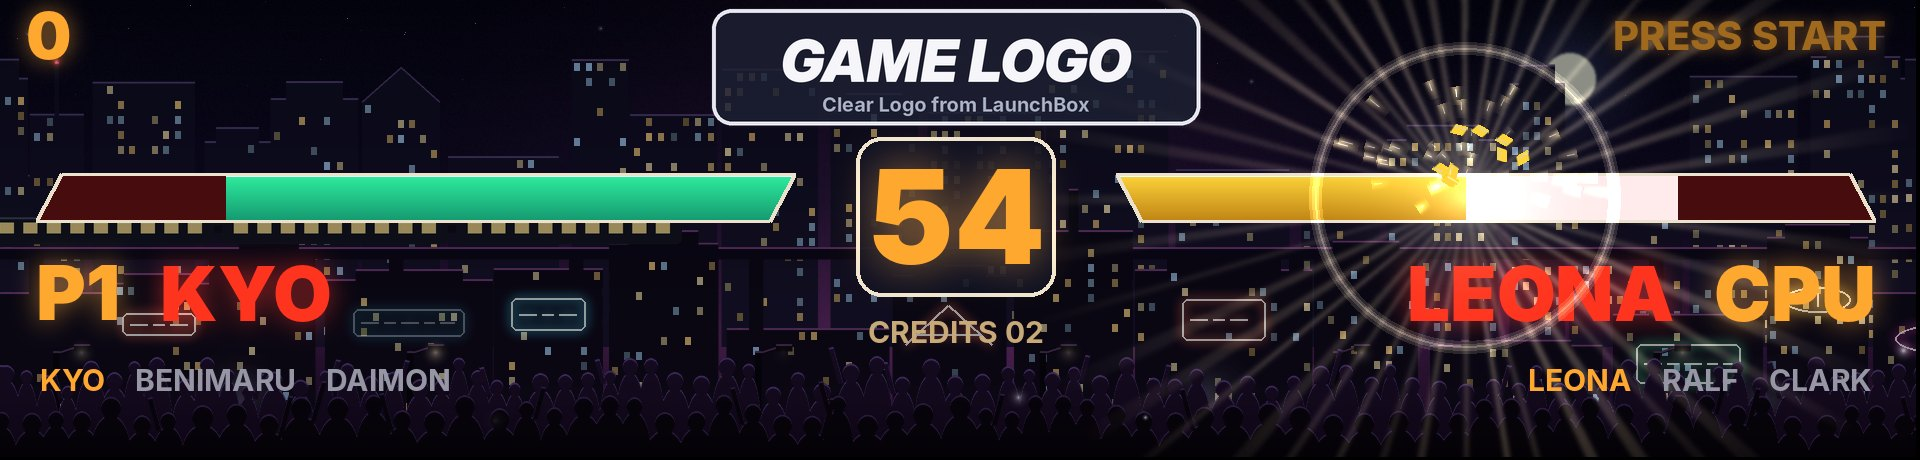
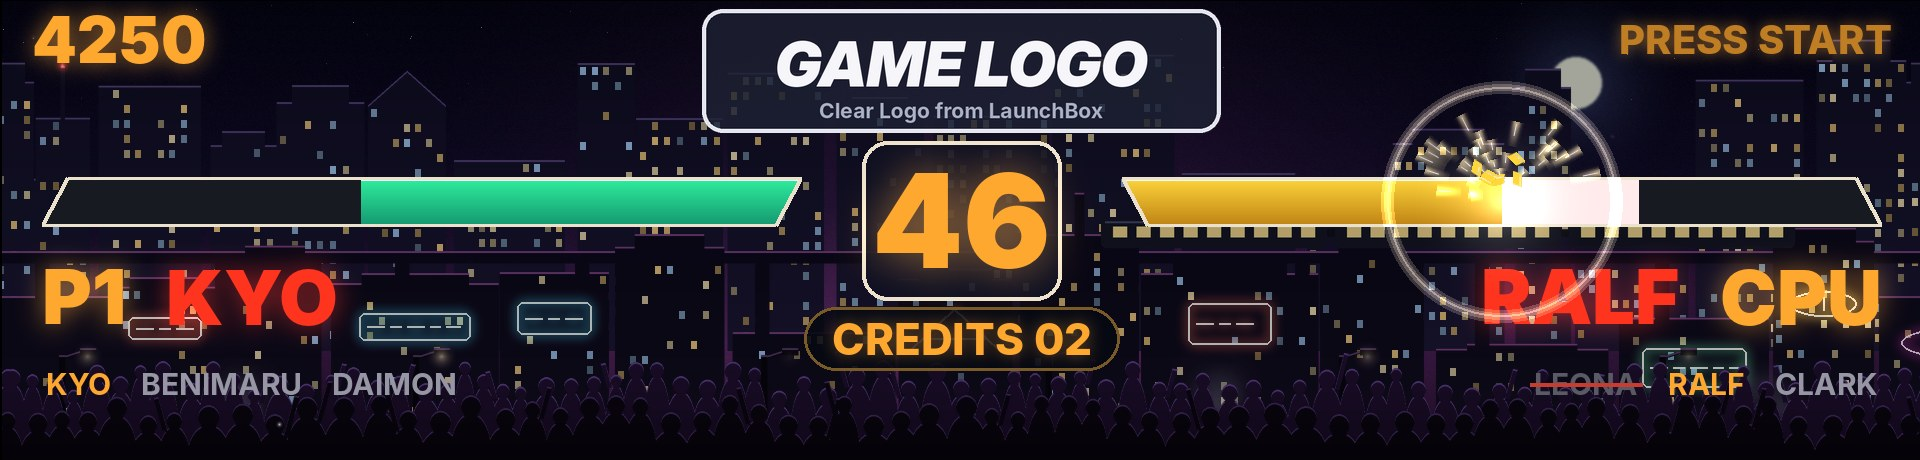
Docs: King of Fighters '98, Twinkle Star Sprites and Metal Slug at the top
Seb asked for Twinkle Star Sprites and Metal Slug beside The King of
Fighters '98 in what the GitHub page shows.

- The README opens on three HD scenes rendered by the program, each with
  the GAME LOGO badge in place of the game's logo. The King of Fighters
  '98 (a hit, the empty part of the bars now grey), Twinkle Star Sprites
  (PERFECT ! on one side, a bomb on the other, VERSUS) and Metal Slug
  (the tank firing a shell, the flamethrower, the prisoners, the credits
  beside the € coin). The coin screen and the LED panel follow.
- hd_neogeo_games_4.jpg shows the new Twinkle Star Sprites scene.
- The RetroArch tables say what each Metal Slug reads (scores,
  prisoners, missions, Metal Slug X's timer) and give Twinkle Star
  Sprites a row of its own, nothing left to learn. The backdrops by
  mission are for Metal Slug 1 to 5 and X. The Metal Slug scene mentions
  the credits and their coin.

Claude-Session: https://claude.ai/code/session_01UHMmGB2iQAKSvNdTFigVJ4

diff --git a/README.fr.md b/README.fr.md
@@ -4,9 +4,10 @@ English version: [README.md](README.md)
 
 Score, vies, crédits et événements des jeux MAME et RetroArch en direct sur le marquee d'une borne d'arcade, avec une scène animée propre à chaque jeu. Sur une dalle LED 128x32 (**Pixelcade LED**, **ZeDMD**), ou en HD lisse sur un écran LCD de marquee (le marquee 1920 x 460 d'une Vewlix par exemple).
 
-![Jeu de combat sur un marquee LCD, affichage HD](docs/images/hd_fight.jpg)
+![The King of Fighters '98 sur un marquee LCD, affichage HD](docs/images/hd_fight.jpg)
+![Twinkle Star Sprites sur un marquee LCD, affichage HD, un PERFECT et une bombe](docs/images/hd_twinkle_star_sprites.jpg)
+![Metal Slug sur un marquee LCD, affichage HD, le char et le lance-flammes](docs/images/hd_metal_slug.jpg)
 ![Écran des pièces d'un jeu de combat sur un marquee LCD, affichage HD](docs/images/hd_coin_screen.jpg)
-![Metal Slug sur un marquee LCD, affichage HD](docs/images/hd_metal_slug.jpg)
 ![Logo du jeu, écran des pièces et combat sur une dalle LED 128x32](docs/images/led_fight.gif)
 ![Metal Slug sur une dalle LED 128x32](docs/images/led_metal_slug.gif)
 
@@ -254,7 +255,7 @@ Avec l'affichage HD lisse, les Metal Slug et les jeux de combat ont une scène c
 
 ![Changement de stage dans un jeu de combat](docs/images/hd_fight_stage.jpg)
 
-- **Metal Slug.** Un panneau de soldat par joueur, avec le score, l'arme et sa jauge de munitions, les bombes, les vies et les prisonniers libérés (premier Metal Slug, X, 3 et 5). Les tirs suivent l'arme (traçantes et douilles, décharges du fusil à pompe, roquettes, lance-flammes), les bombes volent et explosent dans le décor, une caisse tombe quand on ramasse une arme, le casque tombe quand on perd une vie et DERNIÈRE VIE clignote sur la dernière. Dans le char du premier Metal Slug, le char prend la place de l'arme, avec son énergie en coups (trois, comme dans le jeu) et ses obus. Un coup reçu fait clignoter la case perdue, un obus part vers le décor, ÉJECTE-TOI ! clignote quand il n'a plus d'énergie et le char détruit explose. Pour afficher ton propre dessin du char à la place de celui d'ArcadeDMD, dépose-le dans `sprites\mslug_tank_hd.png` (vu de profil, canon vers la droite). Un fond uni autour du dessin devient transparent, les marges vides sont coupées et il se place au milieu de la carte. Le joueur 2 peut arriver à tout moment. Chaque mission a son décor (jungle, désert, montagne enneigée, ville en guerre, port, base ennemie), avec MISSION COMPLETE et un feu d'artifice entre les deux. Quand personne ne joue, les décors passent à tour de rôle.
+- **Metal Slug.** Un panneau de soldat par joueur, avec le score, l'arme et sa jauge de munitions, les bombes, les vies et les prisonniers libérés (premier Metal Slug, X, 3 et 5). Les tirs suivent l'arme (traçantes et douilles, décharges du fusil à pompe, roquettes, lance-flammes), les bombes volent et explosent dans le décor, une caisse tombe quand on ramasse une arme, le casque tombe quand on perd une vie et DERNIÈRE VIE clignote sur la dernière. Dans le char du premier Metal Slug, le char prend la place de l'arme, avec son énergie en coups (trois, comme dans le jeu) et ses obus. Un coup reçu fait clignoter la case perdue, un obus part vers le décor, ÉJECTE-TOI ! clignote quand il n'a plus d'énergie et le char détruit explose. Pour afficher ton propre dessin du char à la place de celui d'ArcadeDMD, dépose-le dans `sprites\mslug_tank_hd.png` (vu de profil, canon vers la droite). Un fond uni autour du dessin devient transparent, les marges vides sont coupées et il se place au milieu de la carte. Le joueur 2 peut arriver à tout moment. En bas de la colonne, les crédits sont dans une pastille sombre à côté d'une pièce frappée du symbole de `config.json`, et une pièce mise tombe dessus. Chaque mission a son décor (jungle, désert, montagne enneigée, ville en guerre, port, base ennemie), avec MISSION COMPLETE et un feu d'artifice entre les deux. Quand personne ne joue, les décors passent à tour de rôle.
 - **Jeux de combat.** Étincelles à chaque coup, compteur de combo, PREMIER COUP, super coups (l'écran s'assombrit), battement de cœur rouge quand la vie est basse, K.O. qui explose, DOUBLE K.O., TIME UP, PERFECT, confettis pour le vainqueur, combattant suivant des King of Fighters, et FIGHT ! au début de chaque round. Le public en bas réagit à l'action.
 - **Jeux Neo Geo faits un par un.** Blazing Star, Puzzle Bobble, Windjammers, Shock Troopers, Neo Turf Masters, Pulstar, Magical Drop III, Super Sidekicks 3, The Ultimate 11, Sengoku 3, Top Hunter, Baseball Stars 2, Last Resort, Aero Fighters 2, Aero Fighters 3, Strikers 1945 Plus, Street Hoop, Super Dodge Ball, Neo Bomberman, Twinkle Star Sprites, League Bowling, Neo Drift Out, Riding Hero, Thrash Rally, Magician Lord, NAM-1975, Cyber-Lip, Ghost Pilots, Alpha Mission II, Viewpoint, Zed Blade, Prehistoric Isle 2, Shock Troopers 2nd Squad, Robo Army, Burning Fight, Mutation Nation, Sengoku, Sengoku 2, Ninja Combat, Ninja Commando, Blue's Journey, Puzzle Bobble 2, Magical Drop II, Money Puzzle Exchanger, Puzzle De Pon!, Puzzle De Pon! R!, Panic Bomber, Pop 'n Bounce, Super Bubble Pop, Spin Master, Ganryu, Zupapa!, Neo Mr. Do!, Super Sidekicks, Super Sidekicks 2, Tecmo World Soccer '96, Goal! Goal! Goal!, Neo-Geo Cup '98, Soccer Brawl, Football Frenzy, Pleasure Goal, Baseball Stars Professional, 2020 Super Baseball, Top Player's Golf, Power Spikes II, Bang Bead, Battle Flip Shot, Over Top, Stakes Winner, Stakes Winner 2, Jockey Grand Prix, Gururin, Ghostlop, Pochi and Nyaa, Puzzled, Zintrick, Digger Man, The Irritating Maze, Andro Dunos, Captain Tomaday, Choutetsu Brikin'ger, Last Hope, Bang Bang Busters, Crossed Swords, Eight Man, Nightmare in the Dark, The Super Spy, Quiz King of Fighters, Quiz Daisousa Sen, Quiz Meitantei Neo & Geo, Chibi Maruko-chan Deluxe Quiz, Minasan no Okagesamadesu!, Mahjong Kyo Retsuden, Janshin Densetsu, Bakatonosama Mahjong Manyuuki, Idol Mahjong Final Romance 2 et Shougi no Tatsujin ont chacun une scène à eux, voir la section 7 (Jeux Neo Geo faits un par un).
 - **Jeux Capcom.** Les 34 jeux de combat se battent dans les décors du jeu, avec les jauges de super sous les combattants. Cinquante autres jeux Capcom, de Final Fight à 1944, Strider et Ghouls'n Ghosts, ont chacun une scène à eux, voir la section 7 (Les jeux Capcom faits un par un).
@@ -270,7 +271,7 @@ Le décor change avec le stage du jeu quand le fichier du jeu sait où le lire.
 |---|---|
 | The King of Fighters '96, '97, '98, '99 et 2000, Rage of the Dragons | `stage` et `backdrop` |
 | The King of Fighters 2002, Garou, Fatal Fury 2, Fatal Fury Special, Real Bout Fatal Fury 2, Real Bout Fatal Fury Special, Samurai Shodown II, III et IV, World Heroes, World Heroes Perfect, SNK vs. Capcom (JAMMA PCB) | `backdrop` |
-| Metal Slug, Metal Slug 2 | `mission` |
+| Metal Slug 1 à 5 et X | `mission` |
 | Street Fighter II, II' Champion Edition, II' Hyper Fighting, Super Street Fighter II et Turbo, Street Fighter Alpha, Alpha 2, Alpha 3, Zero 2 Alpha, Street Fighter III et ses 2nd Impact et 3rd Strike, Darkstalkers, Night Warriors, Vampire Savior, Vampire Hunter 2, Vampire Savior 2, X-Men: Children of the Atom, Marvel vs. Capcom, Cyberbots, Super Gem Fighter, Red Earth | `backdrop`, avec le lieu de chaque décor (`"places"`) |
 
 Ces adresses viennent des bases de triche et restent à confirmer en jeu (`test_retroarch.bat` les affiche). Les autres jeux gardent toujours le même décor. `demo_fight.bat` change de stage tous les deux K.O., pour le voir sans jouer.
@@ -412,12 +413,14 @@ Pour savoir quel cœur tourne, appuie sur F1 pendant le jeu, puis Informations, 
 
 | Jeu | Cœur RetroArch | Affiché tout de suite | À apprendre |
 |---|---|---|---|
-| Metal Slug (`mslug`) | FinalBurn Neo | score, vies, bombes, arme et munitions, le char (dedans ou pas, son énergie et ses obus) | rien |
-| Metal Slug 2 (`mslug2`), Metal Slug X (`mslugx`) | FinalBurn Neo | vies, bombes, arme et munitions | score |
-| Metal Slug 3 (`mslug3`) | FinalBurn Neo | score, vies, bombes, arme et munitions | score J2 |
-| Metal Slug 4 (`mslug4`), Metal Slug 5 (`mslug5`) | FinalBurn Neo | vies, bombes, arme et munitions | score |
+| Metal Slug (`mslug`) | FinalBurn Neo | score de chaque joueur, vies, bombes, arme et munitions, les prisonniers libérés, la mission, le char (dedans ou pas, son énergie et ses obus) | rien |
+| Metal Slug 2 (`mslug2`), Metal Slug 4 (`mslug4`) | FinalBurn Neo | vies, bombes, arme et munitions, la mission | score |
+| Metal Slug X (`mslugx`) | FinalBurn Neo | vies, bombes, arme et munitions, les prisonniers libérés, la mission, le chrono | score |
+| Metal Slug 3 (`mslug3`) | FinalBurn Neo | score, vies, bombes, arme et munitions, les prisonniers libérés, la mission | score J2 |
+| Metal Slug 5 (`mslug5`) | FinalBurn Neo | vies, bombes, arme et munitions, les prisonniers libérés du joueur 1, la mission | score |
+| Twinkle Star Sprites (`twinspri`) | FinalBurn Neo | score, cœurs, bombes, jauge Pow, personnage, chaîne et PERFECT de chaque joueur, l'étape | rien |
 | Les 57 jeux de combat Neo Geo (King of Fighters, Samurai Shodown, Fatal Fury, Last Blade, World Heroes...) | FinalBurn Neo | voir le tableau Jeux de combat juste en dessous | le score, sauf KOF 96 à 2002 et Samurai Shodown II |
-| Blazing Star (`blazstar`), Puzzle Bobble (`pbobblen`), Shock Troopers (`shocktro`), Pulstar (`pulstar`), Magical Drop III (`magdrop3`), Sengoku 3 (`sengoku3`), Top Hunter (`tophuntr`), Last Resort (`lresort`), Aero Fighters 2 (`sonicwi2`), Aero Fighters 3 (`sonicwi3`), Strikers 1945 Plus (`s1945p`), Super Dodge Ball (`sdodgeb`), Neo Bomberman (`neobombe`), Twinkle Star Sprites (`twinspri`), League Bowling (`lbowling`), Magician Lord (`maglord`), NAM-1975 (`nam1975`), Cyber-Lip (`cyberlip`), Ghost Pilots (`gpilots`), Alpha Mission II (`alpham2`), Viewpoint (`viewpoin`), Zed Blade (`zedblade`), Prehistoric Isle 2 (`preisle2`), Shock Troopers 2nd Squad (`shocktr2`), Robo Army (`roboarmy`), Burning Fight (`burningf`), Mutation Nation (`mutnat`), Sengoku (`sengoku`), Sengoku 2 (`sengoku2`), Ninja Combat (`ncombat`), Ninja Commando (`ncommand`), Blue's Journey (`bjourney`), Puzzle Bobble 2 (`pbobbl2n`), Magical Drop II (`magdrop2`), Money Puzzle Exchanger (`miexchng`), Puzzle De Pon! (`puzzledp`), Puzzle De Pon! R! (`puzzldpr`), Panic Bomber (`panicbom`), Pop 'n Bounce (`popbounc`), Super Bubble Pop (`sbp`), Spin Master (`spinmast`), Ganryu (`ganryu`), Zupapa! (`zupapa`), Neo Mr. Do! (`neomrdo`), Bang Bead (`bangbead`), Battle Flip Shot (`flipshot`), Gururin (`gururin`), Ghostlop (`ghostlop`), Pochi and Nyaa (`pnyaa`), Puzzled (`joyjoy`), Zintrick (`zintrckb`), Digger Man (`diggerma`), Andro Dunos (`androdun`), Captain Tomaday (`ctomaday`), Choutetsu Brikin'ger (`ironclad`), Last Hope (`lasthope`), Bang Bang Busters (`b2b`), Crossed Swords (`crsword`), Eight Man (`eightman`), Nightmare in the Dark (`nitd`), The Super Spy (`superspy`), Quiz King of Fighters (`quizkof`), Quiz Daisousa Sen (`quizdais`), Quiz Meitantei Neo & Geo (`quizdai2`), Chibi Maruko-chan Deluxe Quiz (`marukodq`) | FinalBurn Neo | voir Jeux Neo Geo faits un par un | score |
+| Blazing Star (`blazstar`), Puzzle Bobble (`pbobblen`), Shock Troopers (`shocktro`), Pulstar (`pulstar`), Magical Drop III (`magdrop3`), Sengoku 3 (`sengoku3`), Top Hunter (`tophuntr`), Last Resort (`lresort`), Aero Fighters 2 (`sonicwi2`), Aero Fighters 3 (`sonicwi3`), Strikers 1945 Plus (`s1945p`), Super Dodge Ball (`sdodgeb`), Neo Bomberman (`neobombe`), League Bowling (`lbowling`), Magician Lord (`maglord`), NAM-1975 (`nam1975`), Cyber-Lip (`cyberlip`), Ghost Pilots (`gpilots`), Alpha Mission II (`alpham2`), Viewpoint (`viewpoin`), Zed Blade (`zedblade`), Prehistoric Isle 2 (`preisle2`), Shock Troopers 2nd Squad (`shocktr2`), Robo Army (`roboarmy`), Burning Fight (`burningf`), Mutation Nation (`mutnat`), Sengoku (`sengoku`), Sengoku 2 (`sengoku2`), Ninja Combat (`ncombat`), Ninja Commando (`ncommand`), Blue's Journey (`bjourney`), Puzzle Bobble 2 (`pbobbl2n`), Magical Drop II (`magdrop2`), Money Puzzle Exchanger (`miexchng`), Puzzle De Pon! (`puzzledp`), Puzzle De Pon! R! (`puzzldpr`), Panic Bomber (`panicbom`), Pop 'n Bounce (`popbounc`), Super Bubble Pop (`sbp`), Spin Master (`spinmast`), Ganryu (`ganryu`), Zupapa! (`zupapa`), Neo Mr. Do! (`neomrdo`), Bang Bead (`bangbead`), Battle Flip Shot (`flipshot`), Gururin (`gururin`), Ghostlop (`ghostlop`), Pochi and Nyaa (`pnyaa`), Puzzled (`joyjoy`), Zintrick (`zintrckb`), Digger Man (`diggerma`), Andro Dunos (`androdun`), Captain Tomaday (`ctomaday`), Choutetsu Brikin'ger (`ironclad`), Last Hope (`lasthope`), Bang Bang Busters (`b2b`), Crossed Swords (`crsword`), Eight Man (`eightman`), Nightmare in the Dark (`nitd`), The Super Spy (`superspy`), Quiz King of Fighters (`quizkof`), Quiz Daisousa Sen (`quizdais`), Quiz Meitantei Neo & Geo (`quizdai2`), Chibi Maruko-chan Deluxe Quiz (`marukodq`) | FinalBurn Neo | voir Jeux Neo Geo faits un par un | score |
 | Windjammers (`wjammers`), Neo Turf Masters (`turfmast`), Super Sidekicks 3 (`ssideki3`), The Ultimate 11 (`ssideki4`), Baseball Stars 2 (`bstars2`), Street Hoop (`strhoop`), Neo Drift Out (`neodrift`), Riding Hero (`ridhero`), Thrash Rally (`trally`), Super Sidekicks (`ssideki`), Super Sidekicks 2 (`ssideki2`), Tecmo World Soccer '96 (`twsoc96`), Goal! Goal! Goal! (`goalx3`), Neo-Geo Cup '98 (`neocup98`), Soccer Brawl (`socbrawl`), Football Frenzy (`fbfrenzy`), Pleasure Goal (`pgoal`), Baseball Stars Professional (`bstars`), 2020 Super Baseball (`2020bb`), Top Player's Golf (`tpgolf`), Power Spikes II (`pspikes2`), Over Top (`overtop`), Stakes Winner (`stakwin`), Stakes Winner 2 (`stakwin2`), Jockey Grand Prix (`jockeygp`), The Irritating Maze (`irrmaze`), Minasan no Okagesamadesu! (`minasan`), Mahjong Kyo Retsuden (`mahretsu`), Janshin Densetsu (`janshin`), Bakatonosama Mahjong Manyuuki (`bakatono`), Idol Mahjong Final Romance 2 (`froman2b`), Shougi no Tatsujin (`moshougi`) | FinalBurn Neo | voir Jeux Neo Geo faits un par un | rien |
 | Tous les autres jeux Neo Geo | FinalBurn Neo | scène selon le genre (crédits avec MAME) | score, crédits si le jeu en garde une copie |
 | Tous les jeux Capcom CPS1, CPS2 et CPS3 | FinalBurn Neo | voir Les jeux Capcom CPS1, CPS2 et CPS3 | score |

diff --git a/README.md b/README.md
@@ -4,9 +4,10 @@ Version française : [README.fr.md](README.fr.md)
 
 Live score, lives, credits and game events from MAME and RetroArch games, shown on the marquee of an arcade cabinet, with an animated scene for each game. On a 128x32 LED panel (**Pixelcade LED**, **ZeDMD**), or in smooth HD on an LCD marquee screen (a 1920 x 460 Vewlix marquee, for example).
 
-![Fighting game on an LCD marquee, HD display](docs/images/hd_fight.jpg)
+![The King of Fighters '98 on an LCD marquee, HD display](docs/images/hd_fight.jpg)
+![Twinkle Star Sprites on an LCD marquee, HD display, PERFECT and a bomb](docs/images/hd_twinkle_star_sprites.jpg)
+![Metal Slug on an LCD marquee, HD display, the tank and the flamethrower](docs/images/hd_metal_slug.jpg)
 ![Coin screen of a fighting game on an LCD marquee, HD display](docs/images/hd_coin_screen.jpg)
-![Metal Slug on an LCD marquee, HD display](docs/images/hd_metal_slug.jpg)
 ![Game logo, coin screen and fight on a 128x32 LED panel](docs/images/led_fight.gif)
 ![Metal Slug on a 128x32 LED panel](docs/images/led_metal_slug.gif)
 
@@ -254,7 +255,7 @@ With the smooth HD display, the Metal Slug games and the fighting games get a fu
 
 ![Stage change in a fighting game](docs/images/hd_fight_stage.jpg)
 
-- **Metal Slug.** One soldier panel per player, with the score, the weapon and its ammo gauge, the bombs, the lives and the rescued prisoners (first Metal Slug, X, 3 and 5). Shots follow the weapon (tracers and shell casings, shotgun blasts, rockets, flamethrower), bombs fly and explode in the backdrop, a crate drops when a weapon is picked up, the helmet falls when a life is lost and LAST LIFE blinks on the last one. In the tank of the first Metal Slug, the tank takes the place of the weapon, with its energy in hits (three, like in the game) and its cannon shells. A hit makes the lost case blink, a shell flies to the backdrop, BAIL OUT! blinks when it has no energy left and a destroyed tank blows up. To show your own drawing of the tank instead of ArcadeDMD's, put it in `sprites\mslug_tank_hd.png` (seen from the side, gun to the right). A plain background around the drawing is made transparent, empty margins are cut and it sits in the middle of the card. Player 2 can join at any time. Each mission has its own backdrop (jungle, desert, snowy mountain, city at war, harbor, enemy base), with MISSION COMPLETE and fireworks in between. With nobody playing, the backdrops take turns.
+- **Metal Slug.** One soldier panel per player, with the score, the weapon and its ammo gauge, the bombs, the lives and the rescued prisoners (first Metal Slug, X, 3 and 5). Shots follow the weapon (tracers and shell casings, shotgun blasts, rockets, flamethrower), bombs fly and explode in the backdrop, a crate drops when a weapon is picked up, the helmet falls when a life is lost and LAST LIFE blinks on the last one. In the tank of the first Metal Slug, the tank takes the place of the weapon, with its energy in hits (three, like in the game) and its cannon shells. A hit makes the lost case blink, a shell flies to the backdrop, BAIL OUT! blinks when it has no energy left and a destroyed tank blows up. To show your own drawing of the tank instead of ArcadeDMD's, put it in `sprites\mslug_tank_hd.png` (seen from the side, gun to the right). A plain background around the drawing is made transparent, empty margins are cut and it sits in the middle of the card. Player 2 can join at any time. At the bottom of the column, the credits sit in a dark pill beside a coin struck with the currency symbol of `config.json`, and a coin put in falls onto it. Each mission has its own backdrop (jungle, desert, snowy mountain, city at war, harbor, enemy base), with MISSION COMPLETE and fireworks in between. With nobody playing, the backdrops take turns.
 - **Fighting games.** Sparks on every hit, combo counter, FIRST ATTACK, super moves (the screen darkens), a red heartbeat when health is low, exploding K.O., DOUBLE K.O., TIME UP, PERFECT, confetti for the winner, the next King of Fighters fighter, and FIGHT ! at the start of each round. The crowd at the bottom reacts to the action.
 - **Neo Geo games done one by one.** Blazing Star, Puzzle Bobble, Windjammers, Shock Troopers, Neo Turf Masters, Pulstar, Magical Drop III, Super Sidekicks 3, The Ultimate 11, Sengoku 3, Top Hunter, Baseball Stars 2, Last Resort, Aero Fighters 2, Aero Fighters 3, Strikers 1945 Plus, Street Hoop, Super Dodge Ball, Neo Bomberman, Twinkle Star Sprites, League Bowling, Neo Drift Out, Riding Hero, Thrash Rally, Magician Lord, NAM-1975, Cyber-Lip, Ghost Pilots, Alpha Mission II, Viewpoint, Zed Blade, Prehistoric Isle 2, Shock Troopers 2nd Squad, Robo Army, Burning Fight, Mutation Nation, Sengoku, Sengoku 2, Ninja Combat, Ninja Commando, Blue's Journey, Puzzle Bobble 2, Magical Drop II, Money Puzzle Exchanger, Puzzle De Pon!, Puzzle De Pon! R!, Panic Bomber, Pop 'n Bounce, Super Bubble Pop, Spin Master, Ganryu, Zupapa!, Neo Mr. Do!, Super Sidekicks, Super Sidekicks 2, Tecmo World Soccer '96, Goal! Goal! Goal!, Neo-Geo Cup '98, Soccer Brawl, Football Frenzy, Pleasure Goal, Baseball Stars Professional, 2020 Super Baseball, Top Player's Golf, Power Spikes II, Bang Bead, Battle Flip Shot, Over Top, Stakes Winner, Stakes Winner 2, Jockey Grand Prix, Gururin, Ghostlop, Pochi and Nyaa, Puzzled, Zintrick, Digger Man, The Irritating Maze, Andro Dunos, Captain Tomaday, Choutetsu Brikin'ger, Last Hope, Bang Bang Busters, Crossed Swords, Eight Man, Nightmare in the Dark, The Super Spy, Quiz King of Fighters, Quiz Daisousa Sen, Quiz Meitantei Neo & Geo, Chibi Maruko-chan Deluxe Quiz, Minasan no Okagesamadesu!, Mahjong Kyo Retsuden, Janshin Densetsu, Bakatonosama Mahjong Manyuuki, Idol Mahjong Final Romance 2 and Shougi no Tatsujin each have a scene of their own, see section 7 (Neo Geo games done one by one).
 - **Capcom games.** The 34 fighting games fight on the stages of the game, with the super gauges under the fighters. Fifty other Capcom games, from Final Fight to 1944, Strider and Ghouls'n Ghosts, each have a scene of their own, see section 7 (Capcom games done one by one).
@@ -270,7 +271,7 @@ The background changes with the game's stage when the game file knows where to r
 |---|---|
 | The King of Fighters '96, '97, '98, '99 and 2000, Rage of the Dragons | `stage` and `backdrop` |
 | The King of Fighters 2002, Garou, Fatal Fury 2, Fatal Fury Special, Real Bout Fatal Fury 2, Real Bout Fatal Fury Special, Samurai Shodown II, III and IV, World Heroes, World Heroes Perfect, SNK vs. Capcom (JAMMA PCB) | `backdrop` |
-| Metal Slug, Metal Slug 2 | `mission` |
+| Metal Slug 1 to 5 and X | `mission` |
 | Street Fighter II, II' Champion Edition, II' Hyper Fighting, Super Street Fighter II and Turbo, Street Fighter Alpha, Alpha 2, Alpha 3, Zero 2 Alpha, Street Fighter III and its 2nd Impact and 3rd Strike, Darkstalkers, Night Warriors, Vampire Savior, Vampire Hunter 2, Vampire Savior 2, X-Men: Children of the Atom, Marvel vs. Capcom, Cyberbots, Super Gem Fighter, Red Earth | `backdrop`, with the place of each stage (`"places"`) |
 
 These addresses come from the cheat databases and still have to be confirmed in game (`test_retroarch.bat` shows them). The other games always get the same background. `demo_fight.bat` changes the stage every two K.O., so you can see it without playing.
@@ -412,12 +413,14 @@ To see which core is running, press F1 during the game, then go to Information >
 
 | Game | RetroArch core | Shown right away | To learn |
 |---|---|---|---|
-| Metal Slug (`mslug`) | FinalBurn Neo | score, lives, bombs, weapon and ammo, the tank (in it or not, its energy and its shells) | nothing |
-| Metal Slug 2 (`mslug2`), Metal Slug X (`mslugx`) | FinalBurn Neo | lives, bombs, weapon and ammo | score |
-| Metal Slug 3 (`mslug3`) | FinalBurn Neo | score, lives, bombs, weapon and ammo | P2 score |
-| Metal Slug 4 (`mslug4`), Metal Slug 5 (`mslug5`) | FinalBurn Neo | lives, bombs, weapon and ammo | score |
+| Metal Slug (`mslug`) | FinalBurn Neo | score of each player, lives, bombs, weapon and ammo, the rescued prisoners, the mission, the tank (in it or not, its energy and its shells) | nothing |
+| Metal Slug 2 (`mslug2`), Metal Slug 4 (`mslug4`) | FinalBurn Neo | lives, bombs, weapon and ammo, the mission | score |
+| Metal Slug X (`mslugx`) | FinalBurn Neo | lives, bombs, weapon and ammo, the rescued prisoners, the mission, the timer | score |
+| Metal Slug 3 (`mslug3`) | FinalBurn Neo | score, lives, bombs, weapon and ammo, the rescued prisoners, the mission | P2 score |
+| Metal Slug 5 (`mslug5`) | FinalBurn Neo | lives, bombs, weapon and ammo, player 1's rescued prisoners, the mission | score |
+| Twinkle Star Sprites (`twinspri`) | FinalBurn Neo | score, hearts, bombs, Pow gauge, character, chain and PERFECT of each player, the stage | nothing |
 | The 57 Neo Geo fighting games (King of Fighters, Samurai Shodown, Fatal Fury, Last Blade, World Heroes...) | FinalBurn Neo | see the Fighting games table just below | the score, except KOF 96 to 2002 and Samurai Shodown II |
-| Blazing Star (`blazstar`), Puzzle Bobble (`pbobblen`), Shock Troopers (`shocktro`), Pulstar (`pulstar`), Magical Drop III (`magdrop3`), Sengoku 3 (`sengoku3`), Top Hunter (`tophuntr`), Last Resort (`lresort`), Aero Fighters 2 (`sonicwi2`), Aero Fighters 3 (`sonicwi3`), Strikers 1945 Plus (`s1945p`), Super Dodge Ball (`sdodgeb`), Neo Bomberman (`neobombe`), Twinkle Star Sprites (`twinspri`), League Bowling (`lbowling`), Magician Lord (`maglord`), NAM-1975 (`nam1975`), Cyber-Lip (`cyberlip`), Ghost Pilots (`gpilots`), Alpha Mission II (`alpham2`), Viewpoint (`viewpoin`), Zed Blade (`zedblade`), Prehistoric Isle 2 (`preisle2`), Shock Troopers 2nd Squad (`shocktr2`), Robo Army (`roboarmy`), Burning Fight (`burningf`), Mutation Nation (`mutnat`), Sengoku (`sengoku`), Sengoku 2 (`sengoku2`), Ninja Combat (`ncombat`), Ninja Commando (`ncommand`), Blue's Journey (`bjourney`), Puzzle Bobble 2 (`pbobbl2n`), Magical Drop II (`magdrop2`), Money Puzzle Exchanger (`miexchng`), Puzzle De Pon! (`puzzledp`), Puzzle De Pon! R! (`puzzldpr`), Panic Bomber (`panicbom`), Pop 'n Bounce (`popbounc`), Super Bubble Pop (`sbp`), Spin Master (`spinmast`), Ganryu (`ganryu`), Zupapa! (`zupapa`), Neo Mr. Do! (`neomrdo`), Bang Bead (`bangbead`), Battle Flip Shot (`flipshot`), Gururin (`gururin`), Ghostlop (`ghostlop`), Pochi and Nyaa (`pnyaa`), Puzzled (`joyjoy`), Zintrick (`zintrckb`), Digger Man (`diggerma`), Andro Dunos (`androdun`), Captain Tomaday (`ctomaday`), Choutetsu Brikin'ger (`ironclad`), Last Hope (`lasthope`), Bang Bang Busters (`b2b`), Crossed Swords (`crsword`), Eight Man (`eightman`), Nightmare in the Dark (`nitd`), The Super Spy (`superspy`), Quiz King of Fighters (`quizkof`), Quiz Daisousa Sen (`quizdais`), Quiz Meitantei Neo & Geo (`quizdai2`), Chibi Maruko-chan Deluxe Quiz (`marukodq`) | FinalBurn Neo | see Neo Geo games done one by one | score |
+| Blazing Star (`blazstar`), Puzzle Bobble (`pbobblen`), Shock Troopers (`shocktro`), Pulstar (`pulstar`), Magical Drop III (`magdrop3`), Sengoku 3 (`sengoku3`), Top Hunter (`tophuntr`), Last Resort (`lresort`), Aero Fighters 2 (`sonicwi2`), Aero Fighters 3 (`sonicwi3`), Strikers 1945 Plus (`s1945p`), Super Dodge Ball (`sdodgeb`), Neo Bomberman (`neobombe`), League Bowling (`lbowling`), Magician Lord (`maglord`), NAM-1975 (`nam1975`), Cyber-Lip (`cyberlip`), Ghost Pilots (`gpilots`), Alpha Mission II (`alpham2`), Viewpoint (`viewpoin`), Zed Blade (`zedblade`), Prehistoric Isle 2 (`preisle2`), Shock Troopers 2nd Squad (`shocktr2`), Robo Army (`roboarmy`), Burning Fight (`burningf`), Mutation Nation (`mutnat`), Sengoku (`sengoku`), Sengoku 2 (`sengoku2`), Ninja Combat (`ncombat`), Ninja Commando (`ncommand`), Blue's Journey (`bjourney`), Puzzle Bobble 2 (`pbobbl2n`), Magical Drop II (`magdrop2`), Money Puzzle Exchanger (`miexchng`), Puzzle De Pon! (`puzzledp`), Puzzle De Pon! R! (`puzzldpr`), Panic Bomber (`panicbom`), Pop 'n Bounce (`popbounc`), Super Bubble Pop (`sbp`), Spin Master (`spinmast`), Ganryu (`ganryu`), Zupapa! (`zupapa`), Neo Mr. Do! (`neomrdo`), Bang Bead (`bangbead`), Battle Flip Shot (`flipshot`), Gururin (`gururin`), Ghostlop (`ghostlop`), Pochi and Nyaa (`pnyaa`), Puzzled (`joyjoy`), Zintrick (`zintrckb`), Digger Man (`diggerma`), Andro Dunos (`androdun`), Captain Tomaday (`ctomaday`), Choutetsu Brikin'ger (`ironclad`), Last Hope (`lasthope`), Bang Bang Busters (`b2b`), Crossed Swords (`crsword`), Eight Man (`eightman`), Nightmare in the Dark (`nitd`), The Super Spy (`superspy`), Quiz King of Fighters (`quizkof`), Quiz Daisousa Sen (`quizdais`), Quiz Meitantei Neo & Geo (`quizdai2`), Chibi Maruko-chan Deluxe Quiz (`marukodq`) | FinalBurn Neo | see Neo Geo games done one by one | score |
 | Windjammers (`wjammers`), Neo Turf Masters (`turfmast`), Super Sidekicks 3 (`ssideki3`), The Ultimate 11 (`ssideki4`), Baseball Stars 2 (`bstars2`), Street Hoop (`strhoop`), Neo Drift Out (`neodrift`), Riding Hero (`ridhero`), Thrash Rally (`trally`), Super Sidekicks (`ssideki`), Super Sidekicks 2 (`ssideki2`), Tecmo World Soccer '96 (`twsoc96`), Goal! Goal! Goal! (`goalx3`), Neo-Geo Cup '98 (`neocup98`), Soccer Brawl (`socbrawl`), Football Frenzy (`fbfrenzy`), Pleasure Goal (`pgoal`), Baseball Stars Professional (`bstars`), 2020 Super Baseball (`2020bb`), Top Player's Golf (`tpgolf`), Power Spikes II (`pspikes2`), Over Top (`overtop`), Stakes Winner (`stakwin`), Stakes Winner 2 (`stakwin2`), Jockey Grand Prix (`jockeygp`), The Irritating Maze (`irrmaze`), Minasan no Okagesamadesu! (`minasan`), Mahjong Kyo Retsuden (`mahretsu`), Janshin Densetsu (`janshin`), Bakatonosama Mahjong Manyuuki (`bakatono`), Idol Mahjong Final Romance 2 (`froman2b`), Shougi no Tatsujin (`moshougi`) | FinalBurn Neo | see Neo Geo games done one by one | nothing |
 | All other Neo Geo games | FinalBurn Neo | scene by genre (credits with MAME) | score, and credits if the game keeps a copy of them |
 | Every Capcom CPS1, CPS2 and CPS3 game | FinalBurn Neo | see Capcom CPS1, CPS2 and CPS3 games | score |

diff --git a/CHANGELOG.md b/CHANGELOG.md
@@ -40,6 +40,9 @@ La version la plus récente en premier. Chaque version est en anglais, puis en f
 - A new HD scene for Twinkle Star Sprites, livelier and readable from afar. The character's name in big letters on a plate in its colours, the score, five big hearts with the half ones, POW 1 2 MAX in three blocks and the bombs. The box of the column shows VERSUS and VS between two players, and STAGE with its number against the computer, whose side shows its character, its hearts and its bombs, with PRESS START in place of its score. Big moments for what the game does. The chain the game counts (N HIT), the fireballs of an attack cross the column and land with LV1 or LV2 ATTACK, a charged shot leaves as a beam of light (LV 1, LV 2, MAX !), a bomb rumbles the whole screen three times, flashes it white then gold, turns giant rays of light over it, sends three shockwaves across both fields and the column and a shower of stars over them, with BOMB ! bouncing in, a boss attack darkens the other field under BOSS ATTACK !, a heart breaks or fills up, and the last one gives K.O. and WIN ! with fireworks. The game's PERFECT, a formation of puffballs cleared in one chain, shows PERFECT ! in big letters on that side, for player 1 as for player 2 or the computer (learned on a cabinet).
 - The credits of a Neo Geo under RetroArch, guessed from its BIOS, start from those left the last time the game was quit. FinalBurn Neo keeps them in the game's backup memory and gives them back, ArcadeDMD guessed only one. Metal Slug showed one credit less than the game on a cabinet. The guess is no longer lost either when the game comes back after RetroArch's menu was open a while.
 
+**Documentation**
+- The README opens on The King of Fighters '98, Twinkle Star Sprites and Metal Slug on the HD screen, and its tables say what each Metal Slug and Twinkle Star Sprites read under RetroArch.
+
 **Updating from 1.30.0**
 Extract the new zip over the old folder (`config.json`, your learned addresses and your `artwork` folder are kept). Then run `coin_buttons.bat` once more and press the left coin button, the right one, then START for player 1 and START for player 2.
 
@@ -77,6 +80,9 @@ Extract the new zip over the old folder (`config.json`, your learned addresses a
 - `learn.bat` trouve une étape, une mission ou un round que le jeu garde à partir de 0 (0 pour l'étape 1), et l'enregistre avec +1. Une chaîne (`hits=4`) est cherchée comme un petit compteur, plus comme un hiscore. Ce qui est allumé ou éteint, tapé 1 ou 0 (`perfect=1`), est aussi trouvé quand le jeu y garde un compte à rebours au lieu d'un 1, et lu 0 ou 1. Dans Twinkle Star Sprites il trouvait quatre octets BCD, faux dès 10 HIT, et cette adresse est retirée de `learned` au démarrage d'ArcadeDMD.
 - Une nouvelle scène HD pour Twinkle Star Sprites, plus vivante et lisible de loin. Le nom du personnage en grand sur une plaque à ses couleurs, le score, cinq gros cœurs avec les demi-cœurs, POW 1 2 MAX en trois blocs et les bombes. Le cadre de la colonne affiche VERSUS et VS à deux, et STAGE avec son numéro contre l'ordinateur, dont le côté montre son personnage, ses cœurs et ses bombes, avec PRESS START à la place de son score. De grands moments pour ce que fait le jeu. La chaîne que compte le jeu (N HIT), les boules de feu d'une attaque traversent la colonne et arrivent avec LV1 ou LV2 ATTACK, un tir chargé part en rayon de lumière (LV 1, LV 2, MAX !), une bombe fait gronder tout l'écran trois fois, le fait flasher en blanc puis en or, fait tourner de grands rayons de lumière dessus, envoie trois ondes de choc à travers les deux terrains et la colonne et une pluie d'étoiles dessus, avec BOMB ! qui rebondit, une attaque de boss assombrit l'autre terrain sous BOSS ATTACK !, un cœur éclate ou se remplit, et le dernier donne K.O. et WIN ! avec un feu d'artifice. Le PERFECT du jeu, un groupe de boules balayé d'une seule chaîne, affiche PERFECT ! en grand de ce côté, pour le joueur 1 comme pour le joueur 2 ou l'ordinateur (appris sur une borne).
 - Les crédits d'une Neo Geo sous RetroArch, devinés d'après son BIOS, repartent de ceux qui restaient la dernière fois qu'on a quitté le jeu. FinalBurn Neo les garde dans la mémoire de sauvegarde du jeu et les rend, ArcadeDMD n'en devinait qu'un. Metal Slug affichait un crédit de moins que le jeu sur une borne. La devinette n'est plus perdue non plus quand le jeu revient après un moment dans le menu de RetroArch.
+
+**Documentation**
+- Le README s'ouvre sur The King of Fighters '98, Twinkle Star Sprites et Metal Slug sur l'écran HD, et ses tableaux disent ce que lisent chaque Metal Slug et Twinkle Star Sprites sous RetroArch.
 
 **Mettre à jour depuis la 1.30.0**
 Décompresse le nouveau zip par-dessus l'ancien dossier (`config.json`, tes adresses apprises et ton dossier `artwork` sont gardés). Relance ensuite une fois `coin_buttons.bat` et appuie sur le bouton des pièces de gauche, celui de droite, puis sur START du joueur 1 et START du joueur 2.
